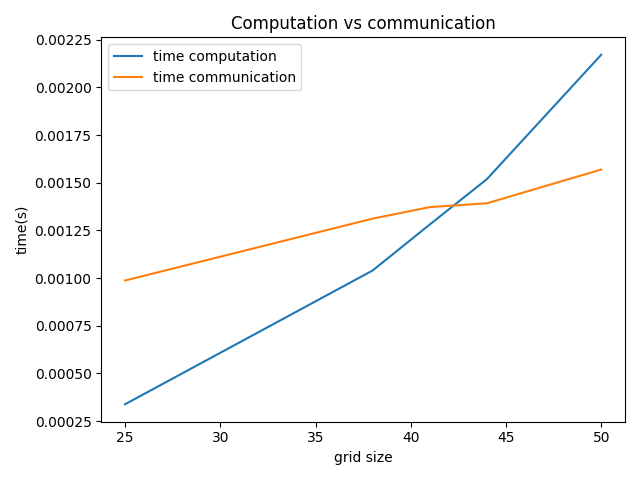
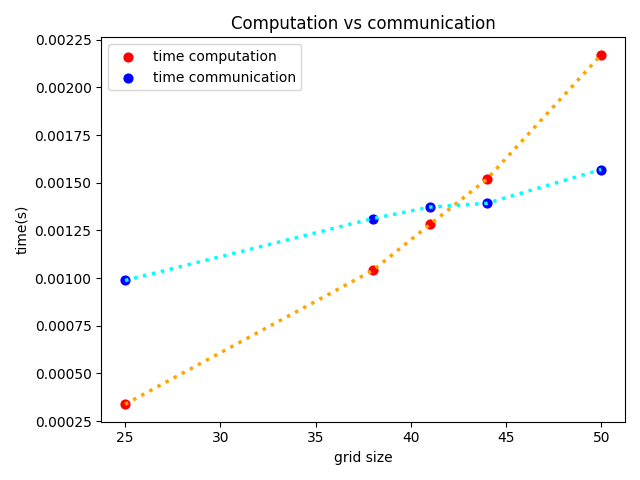
improve figure

diff --git a/HPC/MultiGrid/python_scrips/time.py b/HPC/MultiGrid/python_scrips/time.py
@@ -91,8 +91,14 @@ for key, a,b in zip(sorted(data.keys()), av_comp, av_comm):
 # Plot
 print(av_comp, av_comm)
 plt.figure()
-plt.plot(sorted(data.keys()), av_comp, label="time computation")
-plt.plot(sorted(data.keys()), av_comm , label="time communication")
+plt.plot(sorted(data.keys()), av_comp, linestyle= ":", c = "orange", linewidth=2.5)
+plt.plot(sorted(data.keys()), av_comm, linestyle=":", c = "cyan", linewidth=2.5)
+
+plt.scatter(sorted(data.keys()), av_comp, label="time computation", c = "red", s=40)
+plt.scatter(sorted(data.keys()), av_comm , label="time communication", c = "blue", s=40)
+
+
+
 plt.xlabel("grid size")
 plt.ylabel("time(s)")
 plt.legend()
